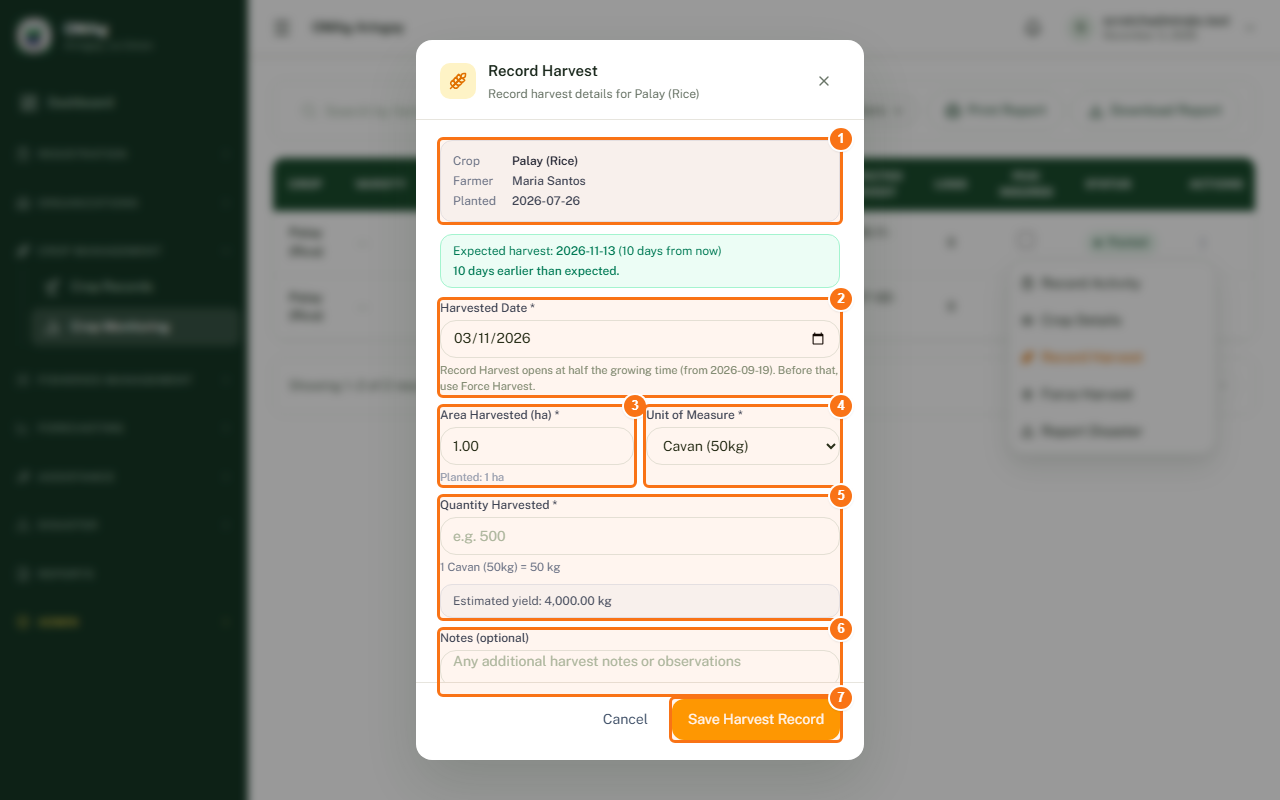
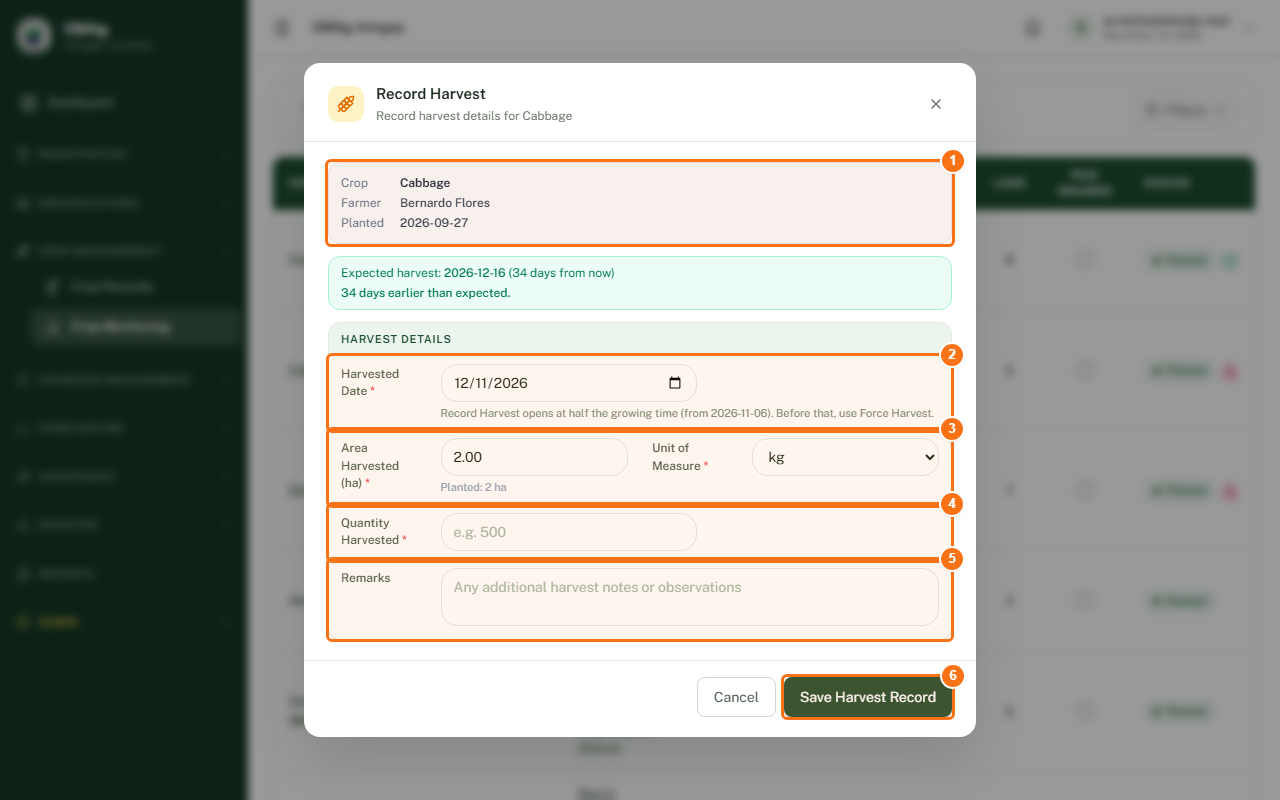
Record Harvest and Edit Harvest Record share one set of table rows
- HarvestFormRows: Harvested Date, Area Harvested (ha), Unit of Measure,
  Quantity Harvested and Remarks as table-form rows, used by both
  windows, so they show the same fields in the same order with the same
  names (Record Harvest called the free text "Notes", Edit called it
  "Remarks"). Each window passes its own inputs and keeps its own rules:
  the late-harvest reason, disaster prompts and estimate comparison of
  Record Harvest; the unit-weight and older-harvest rules of Edit.
- Both windows use the shared Button in their footers.
- Manual: the Record Harvest picture is re-shot (the spec still opened
  the window from the row menu, where Record Harvest no longer is; it
  now uses the wheat button) and its legend finds the table form's cells.

Browser-checked at 1440 px: Record Harvest opened, filled and saved, and
the harvest was verified in the database (date, area, quantity, unit, kg,
remarks). Edit Harvest Record could not be opened from the page: see PR.

diff --git a/oma-frontend/src/pages/Monitoring/CropMonitoringPage.jsx b/oma-frontend/src/pages/Monitoring/CropMonitoringPage.jsx
@@ -7,6 +7,7 @@ import { useSearchParams } from 'react-router-dom'
 import api from '../../api/axiosInstance.js'
 import ComboboxWithOther from '../../components/UI/ComboboxWithOther.jsx'
 import Button from '../../components/UI/Button.jsx'
+import HarvestFormRows from './HarvestFormRows.jsx'
 import ConfirmDialog from '../../components/UI/ConfirmDialog.jsx'
 import DataTable from '../../components/UI/DataTable.jsx'
 import useIsPhone from '../../hooks/useIsPhone.js'
@@ -1222,17 +1223,11 @@ function EditHarvestRecordModal({ harvestId, onClose, onSuccess }) {
 
   return (
     <ModalShell title="Edit Harvest Record" subtitle="Update harvest details" icon={Wheat}
-      iconBg="bg-amber-100" iconColor="text-amber-600" onClose={onClose} maxWidth="max-w-md"
+      iconBg="bg-amber-100" iconColor="text-amber-600" onClose={onClose} maxWidth="max-w-2xl"
       footer={!isLoading && form ? (
         <>
-          <button type="button" onClick={onClose}
-            className="rounded-xl px-4 py-2.5 text-sm text-slate-600 hover:bg-slate-100 transition-colors">
-            Cancel
-          </button>
-          <button type="button" onClick={handleSubmit} disabled={isSubmitting}
-            className="bg-amber-500 hover:bg-amber-600 text-white text-sm font-medium px-4 py-2.5 rounded-xl disabled:opacity-60 transition-colors">
-            {isSubmitting ? 'Saving…' : 'Save Changes'}
-          </button>
+          <Button type="button" variant="outline" onClick={onClose}>Cancel</Button>
+          <Button type="button" onClick={handleSubmit} isLoading={isSubmitting} disabled={isSubmitting}>Save Changes</Button>
         </>
       ) : null}>
       {isLoading || !form ? (
@@ -1240,59 +1235,40 @@ function EditHarvestRecordModal({ harvestId, onClose, onSuccess }) {
       ) : (
         <div className="space-y-3">
           <DraftBanner draft={draft} />
-          <div>
-            <label className="mb-1 block text-xs font-medium text-slate-700">Harvested Date *</label>
-            <input type="date" className={baseInputClasses} value={form.harvest_start_date}
-              max={todayISO()}
-              onChange={e => handleChange('harvest_start_date', e.target.value)} />
-          </div>
-
-          <div className="grid grid-cols-2 gap-3">
-            <div>
-              <label className="mb-1 block text-xs font-medium text-slate-700">Area Harvested (ha) *</label>
-              <DecimalInput decimals={2} className={baseInputClasses} max={plantedHa === null ? undefined : Number(plantedHa)}
-                value={form.area_harvested_hectares}
-                onChange={v => handleChange('area_harvested_hectares', v)}
-                placeholder="e.g. 2.50" />
-              {harvestAreaHint(plantedHa) && <p className="mt-1 text-[11px] text-slate-400">{harvestAreaHint(plantedHa)}</p>}
-            </div>
-            <div>
-              <label className="mb-1 block text-xs font-medium text-slate-700">Unit</label>
-              <select className={baseInputClasses} value={form.unit_of_measure}
-                onChange={e => handleChange('unit_of_measure', e.target.value)}>
+          <HarvestFormRows
+            dateInput={(
+              <input type="date" className={baseInputClasses} value={form.harvest_start_date} max={todayISO()} aria-label="Harvested Date"
+                onChange={e => handleChange('harvest_start_date', e.target.value)} />
+            )}
+            areaInput={(
+              <DecimalInput decimals={2} className={baseInputClasses} max={plantedHa === null ? undefined : Number(plantedHa)} value={form.area_harvested_hectares}
+                aria-label="Area Harvested (ha)" onChange={v => handleChange('area_harvested_hectares', v)} placeholder="e.g. 2.50" />
+            )}
+            areaHint={harvestAreaHint(plantedHa) ? <p className="mt-1 text-[11px] text-slate-400">{harvestAreaHint(plantedHa)}</p> : null}
+            unitSelect={(
+              <select className={baseInputClasses} value={form.unit_of_measure} aria-label="Unit of Measure" onChange={e => handleChange('unit_of_measure', e.target.value)}>
                 {/* The crop's own units, always including the unit already saved on this harvest. */}
                 {[...new Set([...harvestUnitOptions(cropUnits || STANDARD_HARVEST_UNITS), form.unit_of_measure])].map(u => <option key={u} value={u}>{u}</option>)}
               </select>
-            </div>
-          </div>
-
-          <div>
-            <label className="mb-1 block text-xs font-medium text-slate-700">Quantity Harvested *</label>
-            <input type="number" step="0.01" className={baseInputClasses}
-              value={form.quantity}
-              onChange={e => handleChange('quantity', e.target.value)}
-              placeholder="e.g. 500" />
-            {unitPreview(form.quantity, form.unit_of_measure, editWeight) && (
-              <p className={`mt-1 text-[11.5px] ${editWeight === null ? 'text-amber-700' : 'text-slate-500'}`}>{unitPreview(form.quantity, form.unit_of_measure, editWeight)}</p>
             )}
-            {needsTotalKg(editWeight) && (
+            quantityInput={(
+              <input type="number" step="0.01" className={baseInputClasses} value={form.quantity} aria-label="Quantity Harvested"
+                onChange={e => handleChange('quantity', e.target.value)} placeholder="e.g. 500" />
+            )}
+            quantityHint={unitPreview(form.quantity, form.unit_of_measure, editWeight)
+              ? <p className={`mt-1 text-[11.5px] ${editWeight === null ? 'text-amber-700' : 'text-slate-500'}`}>{unitPreview(form.quantity, form.unit_of_measure, editWeight)}</p> : null}
+            quantityExtra={needsTotalKg(editWeight) ? (
               <div className="mt-2">
                 <label className="mb-1 block text-xs font-medium text-slate-700">Total weight (kg) *</label>
-                <input type="number" step="0.01" className={baseInputClasses}
-                  value={form.total_kg}
-                  onChange={e => handleChange('total_kg', e.target.value)}
-                  placeholder="e.g. 40" />
+                <input type="number" step="0.01" className={`${baseInputClasses} md:max-w-[16rem]`} value={form.total_kg} aria-label="Total weight (kg)"
+                  onChange={e => handleChange('total_kg', e.target.value)} placeholder="e.g. 40" />
               </div>
+            ) : null}
+            notesInput={(
+              <textarea rows={2} className={`${baseInputClasses} h-auto resize-none py-2`} value={form.remarks} aria-label="Remarks"
+                onChange={e => handleChange('remarks', e.target.value)} placeholder="Any additional harvest notes" />
             )}
-          </div>
-
-          <div>
-            <label className="mb-1 block text-xs font-medium text-slate-700">Remarks (optional)</label>
-            <textarea rows={2} className={`${baseInputClasses} resize-none`}
-              value={form.remarks}
-              onChange={e => handleChange('remarks', e.target.value)}
-              placeholder="Any additional harvest notes" />
-          </div>
+          />
         </div>
       )}
     </ModalShell>
@@ -1654,14 +1630,8 @@ function RecordHarvestFromMonitoringModal({ record, onClose, onSuccess }) {
         maxWidth="max-w-md"
         footer={
           <>
-            <button type="button" onClick={onClose}
-              className="rounded-xl px-4 py-2.5 text-sm text-slate-600 hover:bg-slate-100 transition-colors">
-              Close
-            </button>
-            <button type="button" onClick={handlePrint} disabled={isPrinting}
-              className="inline-flex items-center gap-1.5 bg-amber-500 hover:bg-amber-600 text-white text-sm font-medium px-4 py-2.5 rounded-xl disabled:opacity-60 transition-colors">
-              <Printer size={15} /> {isPrinting ? 'Preparing…' : 'Print report'}
-            </button>
+            <Button type="button" variant="outline" onClick={onClose}>Close</Button>
+            <Button type="button" icon={Printer} onClick={handlePrint} isLoading={isPrinting} disabled={isPrinting}>{isPrinting ? 'Preparing…' : 'Print report'}</Button>
           </>
         }
       >
@@ -1690,18 +1660,11 @@ function RecordHarvestFromMonitoringModal({ record, onClose, onSuccess }) {
         iconBg="bg-amber-100"
         iconColor="text-amber-600"
         onClose={onClose}
-        maxWidth="max-w-md"
+        maxWidth="max-w-2xl"
         footer={
           <>
-            <button type="button" onClick={onClose}
-              className="rounded-xl px-4 py-2.5 text-sm text-slate-600 hover:bg-slate-100 transition-colors">
-              Cancel
-            </button>
-            <button type="button" onClick={handleSubmitClick}
-              disabled={isSubmitting || (reasonRequired && Boolean(reasonIssue))}
-              className="bg-amber-500 hover:bg-amber-600 text-white text-sm font-medium px-4 py-2.5 rounded-xl disabled:opacity-60 transition-colors">
-              {isSubmitting ? 'Saving…' : 'Save Harvest Record'}
-            </button>
+            <Button type="button" variant="outline" onClick={onClose}>Cancel</Button>
+            <Button type="button" onClick={handleSubmitClick} isLoading={isSubmitting} disabled={isSubmitting || (reasonRequired && Boolean(reasonIssue))}>Save Harvest Record</Button>
           </>
         }
       >
@@ -1764,80 +1727,78 @@ function RecordHarvestFromMonitoringModal({ record, onClose, onSuccess }) {
             </div>
           )}
 
-          <div>
-            <label className="mb-1 block text-xs font-medium text-slate-700">Harvested Date *</label>
-            <input type="date" className={baseInputClasses} value={harvestStartDate}
-              min={opensOn || undefined} max={todayISO()}
-              onChange={e => changeHarvestDate(e.target.value)} />
-            {opensOn && <p className="mt-1 text-[11px] text-[#7A8E7A]">Record Harvest opens at half the growing time (from {opensOn}). Before that, use Force Harvest.</p>}
-          </div>
-
-          {reasonRequired && (
-            <div className="rounded-xl border border-amber-200 bg-amber-50 p-3" data-testid="harvest-reason">
-              <p className="text-xs font-medium text-amber-800 mb-2">
-                This is {Math.abs(harvestVarianceDays)} days later than the expected harvest date.
-              </p>
-              <label className="mb-1 block text-xs font-medium text-slate-700">Reason for late harvest *</label>
-              <select className={baseInputClasses} value={reasonChoice} onChange={e => setReasonChoice(e.target.value)}>
-                <option value="">Choose a reason</option>
-                {LATE_REASONS.map(r => <option key={r} value={r}>{r}</option>)}
-              </select>
-              {reasonChoice && (
-                <div className="mt-2">
-                  <label className="mb-1 block text-xs font-medium text-slate-700">
-                    {reasonIsOther ? 'Describe the reason *' : 'Details (optional)'}
-                  </label>
-                  <input type="text" className={baseInputClasses} value={reasonDetail} maxLength={200}
-                    onChange={e => setReasonDetail(e.target.value)}
-                    placeholder={reasonIsOther ? 'What made the harvest late?' : 'e.g. rain delayed the harvest'} />
+          <HarvestFormRows
+            dateInput={(
+              <input type="date" className={baseInputClasses} value={harvestStartDate} min={opensOn || undefined} max={todayISO()} aria-label="Harvested Date"
+                onChange={e => changeHarvestDate(e.target.value)} />
+            )}
+            dateHint={opensOn ? <p className="mt-1 text-[11px] text-[#7A8E7A]">Record Harvest opens at half the growing time (from {opensOn}). Before that, use Force Harvest.</p> : null}
+            reason={reasonRequired ? (
+              <div className="rounded-xl border border-amber-200 bg-amber-50 p-3" data-testid="harvest-reason">
+                  <p className="text-xs font-medium text-amber-800 mb-2">
+                    This is {Math.abs(harvestVarianceDays)} days later than the expected harvest date.
+                  </p>
+                  <label className="mb-1 block text-xs font-medium text-slate-700">Reason for late harvest *</label>
+                  <select className={baseInputClasses} value={reasonChoice} onChange={e => setReasonChoice(e.target.value)}>
+                    <option value="">Choose a reason</option>
+                    {LATE_REASONS.map(r => <option key={r} value={r}>{r}</option>)}
+                  </select>
+                  {reasonChoice && (
+                    <div className="mt-2">
+                      <label className="mb-1 block text-xs font-medium text-slate-700">
+                        {reasonIsOther ? 'Describe the reason *' : 'Details (optional)'}
+                      </label>
+                      <input type="text" className={baseInputClasses} value={reasonDetail} maxLength={200}
+                        onChange={e => setReasonDetail(e.target.value)}
+                        placeholder={reasonIsOther ? 'What made the harvest late?' : 'e.g. rain delayed the harvest'} />
+                    </div>
+                  )}
                 </div>
-              )}
-            </div>
-          )}
-
-          <div className="grid grid-cols-2 gap-3">
-            <div>
-              <label className="mb-1 block text-xs font-medium text-slate-700">Area Harvested (ha) *</label>
-              <input type="number" step="0.0001" max={plantedHa ?? undefined}
+            ) : null}
+            areaInput={(
+              <input type="number" step="0.0001" max={plantedHa ?? undefined} aria-label="Area Harvested (ha)"
                 className={`${baseInputClasses} ${areaError ? 'border-rose-400' : ''}`}
                 value={areaHarvested}
                 onChange={e => { setAreaHarvested(e.target.value); setAreaError(validateArea(e.target.value)) }}
                 placeholder="e.g. 2.50" />
-              {areaError
-                ? <p className="mt-1 text-xs text-rose-600">{areaError}</p>
-                : harvestAreaHint(plantedHa) && <p className="mt-1 text-[11px] text-slate-400">{harvestAreaHint(plantedHa)}</p>}
-            </div>
-            <div>
-              <label className="mb-1 block text-xs font-medium text-slate-700">Unit of Measure *</label>
-              <select className={baseInputClasses} value={unitOfMeasure}
+            )}
+            areaHint={areaError
+              ? <p className="mt-1 text-xs text-rose-600">{areaError}</p>
+              : (harvestAreaHint(plantedHa) ? <p className="mt-1 text-[11px] text-slate-400">{harvestAreaHint(plantedHa)}</p> : null)}
+            unitSelect={(
+              <select className={baseInputClasses} value={unitOfMeasure} aria-label="Unit of Measure"
                 onChange={e => { setUnitOfMeasure(e.target.value); setTotalKg(''); setTotalKgError('') }}>
                 {unitOptions.map(u => <option key={u} value={u}>{u}</option>)}
               </select>
-            </div>
-          </div>
-
-          <div>
-            <label className="mb-1 block text-xs font-medium text-slate-700">Quantity Harvested *</label>
-            <input type="number" step="0.01"
-              className={`${baseInputClasses} ${quantityError ? 'border-rose-400' : ''}`}
-              value={quantityHarvested}
-              onChange={e => { setQuantityHarvested(e.target.value); setQuantityError(validateQuantity(e.target.value)) }}
-              placeholder="e.g. 500" />
-            {quantityError && <p className="mt-1 text-xs text-rose-600">{quantityError}</p>}
-            {unitPreview(quantityHarvested, unitOfMeasure, weight) && (
-              <p className={`mt-1 text-[11.5px] ${weight === null ? 'text-amber-700' : 'text-slate-500'}`}>{unitPreview(quantityHarvested, unitOfMeasure, weight)}</p>
             )}
-            {needsTotalKg(weight) && (
-              <div className="mt-2">
-                <label className="mb-1 block text-xs font-medium text-slate-700">Total weight (kg) *</label>
-                <input type="number" step="0.01"
-                  className={`${baseInputClasses} ${totalKgError ? 'border-rose-400' : ''}`}
-                  value={totalKg}
-                  onChange={e => { setTotalKg(e.target.value); setTotalKgError(totalKgProblem(e.target.value)) }}
-                  placeholder="e.g. 40" />
-                {totalKgError && <p className="mt-1 text-xs text-rose-600">{totalKgError}</p>}
-              </div>
+            quantityInput={(
+              <input type="number" step="0.01" aria-label="Quantity Harvested"
+                className={`${baseInputClasses} ${quantityError ? 'border-rose-400' : ''}`}
+                value={quantityHarvested}
+                onChange={e => { setQuantityHarvested(e.target.value); setQuantityError(validateQuantity(e.target.value)) }}
+                placeholder="e.g. 500" />
             )}
+            quantityHint={(
+              <>
+                {quantityError && <p className="mt-1 text-xs text-rose-600">{quantityError}</p>}
+                {unitPreview(quantityHarvested, unitOfMeasure, weight) && (
+                  <p className={`mt-1 text-[11.5px] ${weight === null ? 'text-amber-700' : 'text-slate-500'}`}>{unitPreview(quantityHarvested, unitOfMeasure, weight)}</p>
+                )}
+              </>
+            )}
+            quantityExtra={(
+              <>
+                {needsTotalKg(weight) && (
+                  <div className="mt-2">
+                    <label className="mb-1 block text-xs font-medium text-slate-700">Total weight (kg) *</label>
+                    <input type="number" step="0.01" aria-label="Total weight (kg)"
+                      className={`${baseInputClasses} md:max-w-[16rem] ${totalKgError ? 'border-rose-400' : ''}`}
+                      value={totalKg}
+                      onChange={e => { setTotalKg(e.target.value); setTotalKgError(totalKgProblem(e.target.value)) }}
+                      placeholder="e.g. 40" />
+                    {totalKgError && <p className="mt-1 text-xs text-rose-600">{totalKgError}</p>}
+                  </div>
+                )}
             {/* Estimated yield (crop_type.yield_per_ha_kg x area_planted_ha, computed server-side and already on the record): the same
                 live "meeting the estimate or not" comparison as the harvest date above, against the real kg this harvest will be saved as
                 (the quantity x the unit's weight from Settings > Harvest Units, or the total kg typed for a unit with no standard weight). */}
@@ -1868,14 +1829,14 @@ function RecordHarvestFromMonitoringModal({ record, onClose, onSuccess }) {
                 )}
               </div>
             )}
-          </div>
-
-          <div>
-            <label className="mb-1 block text-xs font-medium text-slate-700">Notes (optional)</label>
-            <textarea rows={2} className={`${baseInputClasses} resize-none`} value={harvestNotes}
-              onChange={e => setHarvestNotes(e.target.value)}
-              placeholder="Any additional harvest notes or observations" />
-          </div>
+              </>
+            )}
+            notesInput={(
+              <textarea rows={2} className={`${baseInputClasses} h-auto resize-none py-2`} value={harvestNotes} aria-label="Remarks"
+                onChange={e => setHarvestNotes(e.target.value)}
+                placeholder="Any additional harvest notes or observations" />
+            )}
+          />
         </div>
       </ModalShell>
 

diff --git a/oma-frontend/src/pages/Monitoring/HarvestFormRows.jsx b/oma-frontend/src/pages/Monitoring/HarvestFormRows.jsx
@@ -1,0 +1,39 @@
+import { FormCell, FormRow, FormRows, FormSection } from '../../components/UI/FormTable.jsx'
+
+// The fields of a crop harvest as table rows, shared by Record Harvest and Edit Harvest Record so the two always show the same fields in the same
+// order with the same names. Each window passes its own inputs (and keeps its own rules); this only lays them out.
+//   dateInput, areaInput, unitSelect, quantityInput, notesInput   the controls
+//   dateHint / areaHint / quantityHint                            small text under a control (a note, an error)
+//   reason                                                        the late-harvest block (Record Harvest only), shown under the date
+//   quantityExtra                                                 under the quantity: the total-kg box, the estimate comparison
+export default function HarvestFormRows({ title = 'Harvest Details', dateInput, dateHint = null, reason = null, areaInput, areaHint = null, unitSelect, quantityInput, quantityHint = null, quantityExtra = null, notesInput }) {
+  return (
+    <FormSection title={title}>
+      <FormRows label="Harvest details">
+        <FormRow>
+          <FormCell label="Harvested Date" required wide hint={dateHint}>
+            <div className="md:max-w-[16rem]">{dateInput}</div>
+          </FormCell>
+        </FormRow>
+        {reason && (
+          <FormRow>
+            <FormCell label="Reason" wide>{reason}</FormCell>
+          </FormRow>
+        )}
+        <FormRow>
+          <FormCell label="Area Harvested (ha)" required hint={areaHint}>{areaInput}</FormCell>
+          <FormCell label="Unit of Measure" required>{unitSelect}</FormCell>
+        </FormRow>
+        <FormRow>
+          <FormCell label="Quantity Harvested" required wide hint={quantityHint}>
+            <div className="md:max-w-[16rem]">{quantityInput}</div>
+            {quantityExtra}
+          </FormCell>
+        </FormRow>
+        <FormRow>
+          <FormCell label="Remarks" wide>{notesInput}</FormCell>
+        </FormRow>
+      </FormRows>
+    </FormSection>
+  )
+}

diff --git a/oma-frontend/src/pages/Manual/manualScreens.js b/oma-frontend/src/pages/Manual/manualScreens.js
@@ -1750,26 +1750,21 @@ export default {
    },
    {
     "n": 3,
-    "label": "Area Harvested (ha)",
-    "desc": "Required. It is filled with the area planted; it cannot be more than that."
+    "label": "Area Harvested and Unit",
+    "desc": "Both required. The area is filled with the area planted and cannot be more than that. The unit starts on kg for every crop: the unit the harvest was counted in (cavan, kg, metric ton and the units set in Harvest Unit Settings)."
    },
    {
     "n": 4,
-    "label": "Unit of Measure",
-    "desc": "Required. Starts on kg for every crop. The unit the harvest was counted in (cavan, kg, metric ton and the units set in Harvest Unit Settings)."
-   },
-   {
-    "n": 5,
     "label": "Quantity Harvested",
     "desc": "Required. The amount in that unit. Harvest Unit Settings turns it into kilograms for the totals."
    },
    {
-    "n": 6,
-    "label": "Notes",
+    "n": 5,
+    "label": "Remarks",
     "desc": "Optional harvest notes or observations."
    },
    {
-    "n": 7,
+    "n": 6,
     "label": "Save Harvest Record",
     "desc": "Saves the harvest. The crop moves to Harvested and its actual yield is filled in."
    }
